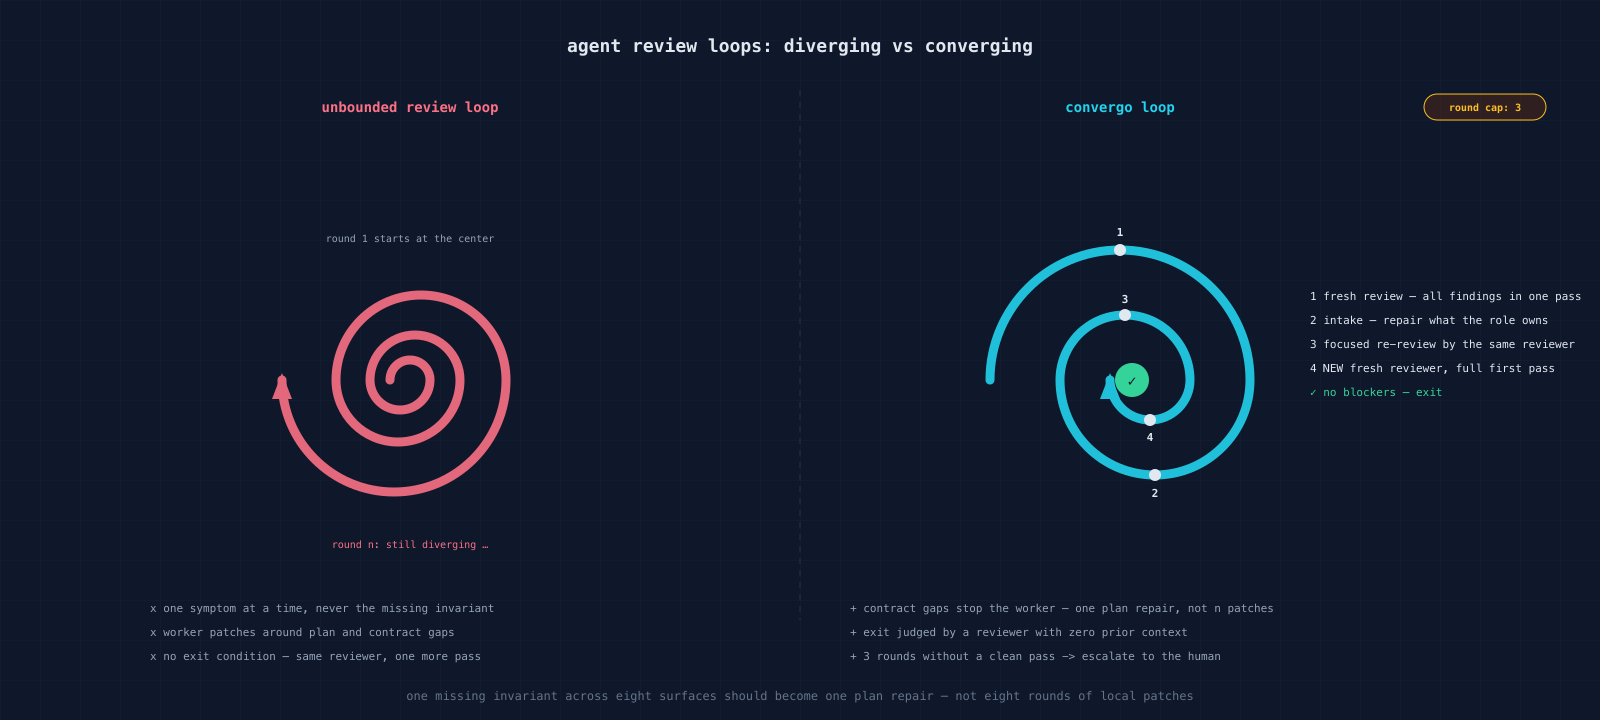
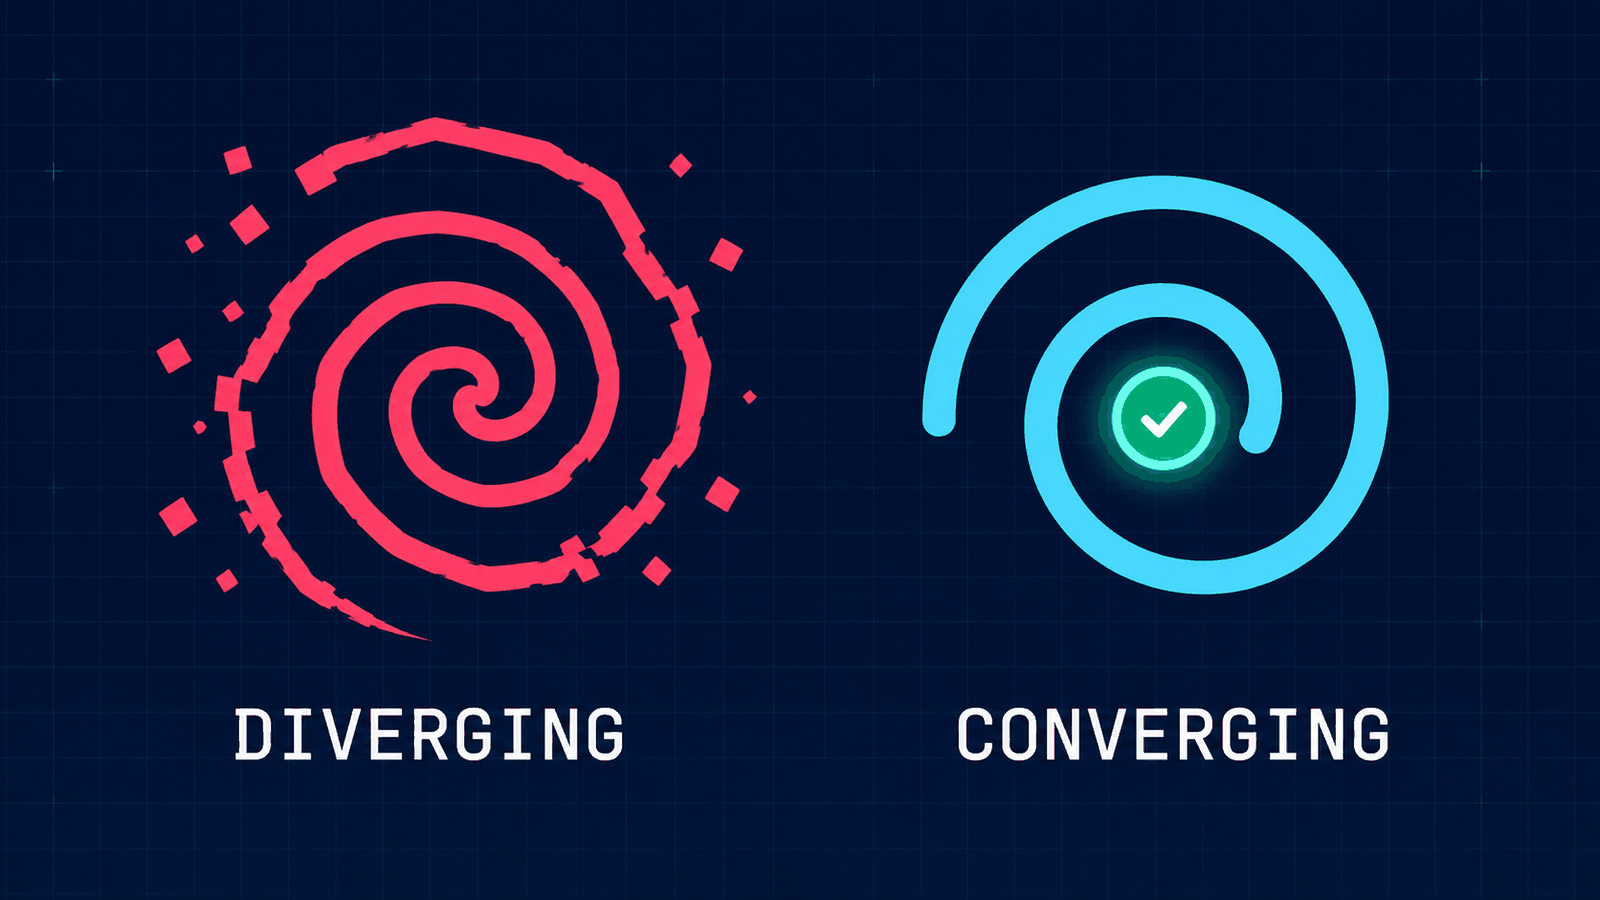
docs(readme): replace the hand-drawn hero with generated art
The SVG hero's labels were too small to read at README scale. New hero
is generated (ChatGPT image via opencli, logo as style reference) with
only two large words — DIVERGING with a ragged outward spiral shedding
fragments, CONVERGING with a smooth spiral closing on a checked dot.
The prose the old diagram carried already lives in the README body.

Claude-Session: https://claude.ai/code/session_01Bzku2PMDWz9MbxGSGaRQBb

diff --git a/README.md b/README.md
@@ -7,7 +7,7 @@
 
 ![Diverging vs converging review loops](docs/assets/convergo-hero.png)
 
-<!-- hero source: docs/assets/convergo-hero.svg (baoyu-diagram design system); placeholder until Iris's final art lands — replace the files, keep the paths -->
+<!-- hero: AI-generated (opencli chatgpt image, logo.png as style reference); placeholder until Iris's final art lands — replace the file, keep the path -->
 
 **Convergo** is a convergence-focused fork of
 [Compound Engineering](https://github.com/EveryInc/compound-engineering-plugin)
